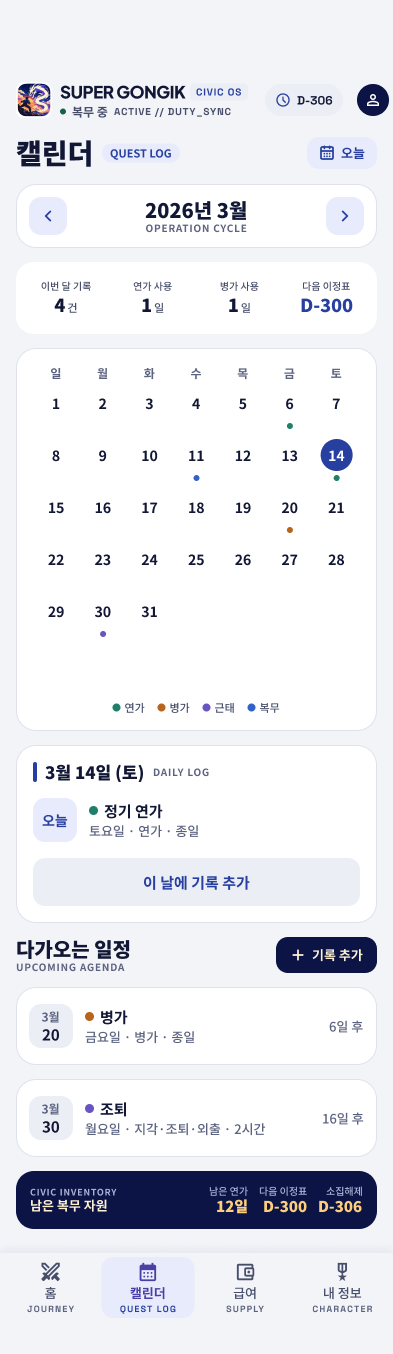
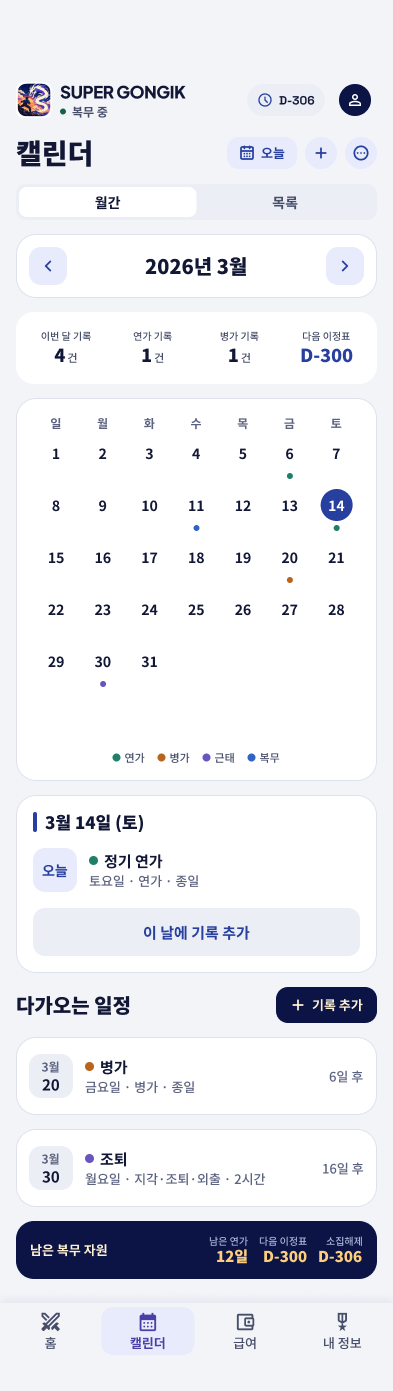
docs(design): Figma page 52 redrawn to the app; references re-exported
- 홈 redrawn from the app (249:4430, 250:4512, 250:4672); the pre-PR #70
  frames moved to page 99
- theme/world-language off for Standard (PR #88), so Standard frames are
  Korean only
- 캘린더: 월간/목록, + / … buttons, 연가·병가 기록 N건; 급여: 이번 달 예상 보수
- figma-reference PNGs re-exported; deviations.json and the audit updated

Claude-Session: https://claude.ai/code/session_01NhCrP5h5uoXGAdE9jrHTyg

diff --git a/docs/design/figma-reference/README.md b/docs/design/figma-reference/README.md
@@ -2,13 +2,14 @@
 
 1x PNG exports of the iOS production frames in Figma file `hy0KYmsJxVzj2JwJtbfIpS`
 (page 52 · iOS Production — Screens), read through the Figma MCP `get_screenshot`
-on 2026-11-08. File name: `<screen>-<theme>-<appearance>__<node id>.png`.
+on 2026-11-08 and re-exported after the same-day redraw (home redrawn from the
+app; 캘린더 controls and labels; Standard world-language off). File name: `<screen>-<theme>-<appearance>__<node id>.png`.
 
 | File                                      | Node       | Frame name                                                                     |
 | ----------------------------------------- | ---------- | ------------------------------------------------------------------------------ |
-| `home-standard-light__202-3614.png`       | `202:3614` | Civic Codex / 홈 / In service · Light                                          |
-| `home-warrior-light__202-3847.png`        | `202:3847` | Civic Codex / 홈 / In service · Warrior Light                                  |
-| `home-warrior-dark__202-3956.png`         | `202:3956` | Civic Codex / 홈 / In service · Warrior Dark                                   |
+| `home-standard-light__249-4430.png`       | `249:4430` | Civic Codex / 홈 / In service · Light (redrawn from the app 2026-11-08)        |
+| `home-warrior-light__250-4512.png`        | `250:4512` | Civic Codex / 홈 / In service · Warrior Light (redrawn 2026-11-08)             |
+| `home-warrior-dark__250-4672.png`         | `250:4672` | Civic Codex / 홈 / In service · Warrior Dark (redrawn 2026-11-08)              |
 | `calendar-standard-light__204-3938.png`   | `204:3938` | Civic Codex / 캘린더 / Month · Light                                           |
 | `calendar-warrior-dark__204-4469.png`     | `204:4469` | Civic Codex / 캘린더 / Month · Warrior Dark                                    |
 | `pay-standard-light__206-4205.png`        | `206:4205` | Civic Codex / 급여 / Base only · Light                                         |
@@ -17,8 +18,8 @@ on 2026-11-08. File name: `<screen>-<theme>-<appearance>__<node id>.png`.
 | `profile-warrior-dark__207-4728.png`      | `207:4728` | Civic Codex / 내 정보 / List · Warrior Dark                                    |
 | `onboarding-standard-light__208-4628.png` | `208:4628` | Civic Codex / 온보딩 / Step 1 of 4 · Light (not captured by the app tests yet) |
 
-The newest node on page 52 at export time was in the `244:*` range (components
-inside these frames); no newer production frame for these screens exists.
+The pre-PR #70 home frames (`202:3614`, `202:3847`, `202:3956`) were moved to
+page 99 on 2026-11-08.
 
 ## How they are used
 

diff --git a/docs/design/IOS-FIGMA-FUNCTIONAL-AUDIT-2026-11.md b/docs/design/IOS-FIGMA-FUNCTIONAL-AUDIT-2026-11.md
@@ -118,3 +118,15 @@ None of these are covered by simulator results:
 | 캘린더 `204:3938`: records as dots under the day          | `RecordsView.DayCell`: category tint on the tile removed; dots and legend kept | adopted: the tint repeated the dots and blurred selected/today                                              |
 | 홈 `202:3614`: full-width 남은 연가 card with a bar       | `TodayView.LedgerGrid`: remaining-leave bar inside the 2×2 tile                | partly: the bar is adopted; the full-width card is not, because the 2×2 ledger is the PR #70 owner decision |
 | 홈 `202:*` compact hero, English world labels in Standard | none                                                                           | rejected: reverts PR #70/#88                                                                                |
+
+## 8. Figma redrawn to the app (2026-11-08)
+
+| Change in Figma                                                                                                                                     | Nodes                                                               |
+| --------------------------------------------------------------------------------------------------------------------------------------------------- | ------------------------------------------------------------------- |
+| 홈 redrawn from the app: full-bleed hero with journey trail, 오늘 기록하기, 다가오는 일정, 2×2 복무 현황 with the remaining-leave bar, journey note | `249:4430` Light, `250:4512` Warrior Light, `250:4672` Warrior Dark |
+| Pre-PR #70 home frames moved to page 99 (renamed "superseded")                                                                                      | `202:3614`, `202:3847`, `202:3956`                                  |
+| `theme/world-language` set to false for Standard (PR #88): English labels gone from every Standard frame, Warrior unchanged                         | `VariableID:118:19`                                                 |
+| 캘린더: 월간/목록 control, + / … buttons, 연가·병가 기록 N건 labels                                                                                 | `204:3938`, `204:4256`, `204:4469`                                  |
+| 급여: "이번 달 예상 보수"                                                                                                                           | `206:4205`, `206:4424`, `206:4539`                                  |
+
+Not redrawn: 내 정보 row glyphs, the app's hero artwork (Figma uses the BrandMark image), Sunday/Saturday day colours. The CI references in `figma-reference/` were re-exported after the redraw.

diff --git a/docs/design/SCREEN-MAP.md b/docs/design/SCREEN-MAP.md
@@ -2,7 +2,7 @@
 
 - Updated: 2026-10-15 · Figma file `hy0KYmsJxVzj2JwJtbfIpS` · see [FIGMA-SOURCE-OF-TRUTH.md](./FIGMA-SOURCE-OF-TRUTH.md)
 - Status dates: every `MATCH`/`REFINE` below was judged in the sync it names (2026-10-14 for 내 정보; earlier for the rest). A status is not re-verified by later commits; the audit of `794e489` (2026-10-25, docs/design/STITCH-REAL-FIDELITY-AUDIT-2026-10.md) compared only the home against the Stitch `master_synthesis` image. Pixel parity of every screen is unverified.
-- 2026-11-08: the Civic Codex 홈 frames (`202:*`) predate PR #70/#88; see [IOS-FIGMA-FUNCTIONAL-AUDIT-2026-11.md](./IOS-FIGMA-FUNCTIONAL-AUDIT-2026-11.md). Rendered Figma ↔ app comparison: CI job `ios-ui-flows` (`figma-reference/`).
+- 2026-11-08: the Civic Codex 홈 frames were redrawn from the app (`249:4430`, `250:4512`, `250:4672`; the old `202:*` frames are on page 99); see [IOS-FIGMA-FUNCTIONAL-AUDIT-2026-11.md](./IOS-FIGMA-FUNCTIONAL-AUDIT-2026-11.md). Rendered Figma ↔ app comparison: CI job `ios-ui-flows` (`figma-reference/`).
 - Status: `MATCH` Figma = code · `REFINE` code or Figma adjusted in this sync / small gap noted · `MERGE` Stitch idea folded into a canonical screen · `DEPRECATE` reference only, not built · `FUTURE` needs core/domain work first · `MISSING_IN_CODE` · `MISSING_IN_FIGMA`
 
 ## 1. Canonical production screens (page 52)
